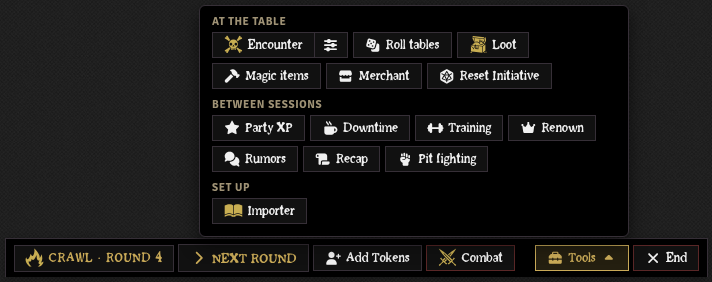
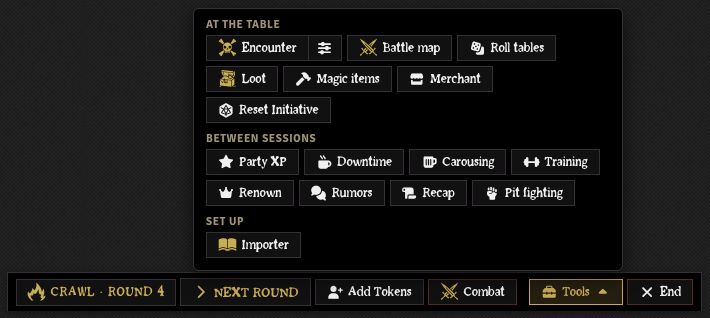
Battle map from Tools: review fixes
- CHANGELOG: [Unreleased] Added line for Tools > Battle map.
- Wiki: the Tools row and Encounter Battle Maps name the fourth entry point
  (always opens the picker, party only); index one-liner; Tools panel
  image retaken from the harness; the three bar fixtures carry the entry.
- Keep this battle on a battle with no creature saves under the map's name
  instead of "0  (Map)".
- Tests for openPartyBattleMap (picker forced, encounter null, closed
  picker, running battle, non-GM, guard shared with the encounter path)
  and for the kept name.
- Inventory: battle-actions.mjs description names all four callers.

Changed region(s): [[0.0, 0.0284, 1.0, 0.9929], [0.2789, 0.0, 0.8986, 0.0851]]

diff --git a/CHANGELOG.md b/CHANGELOG.md
@@ -4,6 +4,7 @@
 
 ### Added
 
+- **A battle map without rolling an encounter.** Battle maps could only be reached from a rolled creature (the Encounter panel, the posted card, the Encounter Roller). **Tools > At the table > Battle map** now opens the map picker and puts the party alone on the chosen map, where it stands; you add the foes yourself. The battle then runs like any other: Bring the table, Change map and Return to travel are on the Crawl Bar's battle item, and Keep this battle saves the copy under the map's name.
 - **Carousing runs the Western Reaches and Cursed Scroll #6 rules: benefits and mishaps.** The Carousing tab used to roll only the Core rulebook's one-line outcome, so the expanded rules in those books (a d8 outcome that sends you to a d100 Benefit table and a d100 Mishap table) were not reachable at all: Extras' own expanded Carousing is off whenever the Enhancer is installed. Pick the Western Reaches or Cursed Scroll #6 rules in the setup and the Event, Benefit and Mishap tables of that book are used with them. Each character rolls d8 plus the tier, holiday and renown bonuses, reads the matrix row (mishaps, benefits, % modifier, XP), then rolls a d100 for each benefit and mishap it lists, shifted by the row's % modifier and kept between 1 and 100. A row that says to re-roll as a mishap or as a benefit rolls on the other table. The row's XP, and any plain XP, Luck or signed renown a result states, are awarded once; everything else stays in the saved result for you. A holiday's extra benefit, extra mishap, benefit bonus and advantage apply; its chance events stay manual. The results show as Benefit and Mishap lines in the tab, the history and the Session Recap. The two d100 tables must cover 1 to 100, or the outing is refused before anyone pays. `docs/wiki/Carousing.md` and `docs/API.md` have the rules.
 - **The hex hover card and the Hex Data window name the hex's region (#496).** The GM's hover card gets a line after the terrain and the Hex Data header a Region entry beside Terrain, read from the same answer the Show regions overlay and the encounter roll use, so a hex shows no region exactly where the roll finds none. A region taken from the nearest keyed hex, not a printed border, reads "(estimated)". Nothing shows without a scan or seeds, for an unnumbered hex, or to players; a region fix or a changed crawl entry updates both without a reload.
 - **Hex Data takes links by drag-and-drop, shares them with players, and rolls a table when the party arrives (#499).** The Links section accepts a journal entry, journal page or roll table dropped from the sidebar and fills the name and UUID for you (the UUID box stays for pasting); every row gains an open button and an **Also give players Observer access** tick. Save applies the tick by raising the linked document's own ownership to at least Observer — raising only its own default and its inheriting entries, never lowering a per-user restriction on it (a player who owns the journal through their own entry sees a page that inherits at Observer once it is shared), and for a journal page raising the page, not its journal, so the journal's other pages stay private — and refuses the module's private hex records. A share that did not take (a compendium copy, a vetoed update) is reported. A link that is disclosed while players cannot open it says so under the row, and a player's click on one they cannot open is answered with a notice instead of nothing happening. A new **Rolls when the party arrives** card sets the per-hex roll table, its chance and first-entry-only — the fields a committed party entry already reads.

diff --git a/docs/FILE-INVENTORY.md b/docs/FILE-INVENTORY.md
@@ -262,7 +262,7 @@
 | `battle-maps/battle-map-picker-core.mjs` | 366 | The pure half of the battle map picker: orders the window's three groups (this terrain's maps with the default marked, every other map with terrain chips, and the scenes already in the world) and works out the next per-terrain prefs for pin, switch off and pick at random, so the default the GM sees is always the default that opens (it follows the library's rule exactly). No Foundry. |
 | `battle-maps/battle-map-picker.mjs` | 279 | The battle map picker window: previews of the shipped maps and the world's own scenes with Day, Night and Camp toggles, select then confirm, and GM-only controls to pin a terrain's default, switch a map off or pick at random. `BattleMapPicker.pick` answers with the choice, or null when it is closed. Saves of the prefs are queued so quick clicks are not lost. |
 | `battle-maps/battle-actions-core.mjs` | 207 | The pure half of the buttons that put the feature in the GM's hands: which battle buttons the Encounter panel and the battle bar show for each state of a battle, the panel's open and fold rule (it opens while the battle is staged and folds when it goes live), the readout's wording, whether a posted card can offer a battle, and the terrain, night and camping a click starts from. No Foundry. |
-| `battle-maps/battle-actions.mjs` | 299 | The one flow behind both Battle map buttons, the clock HUD's Encounter panel and the posted encounter card: pick the map when asked, set the battle up, one at a time. Also the GM-only wiring of the card's button and the actions behind Change map, Bring the table and Return to travel. |
+| `battle-maps/battle-actions.mjs` | 301 | The one flow behind every Battle map button (the clock HUD's Encounter panel, the posted encounter card, the Encounter Roller, and Tools > Battle map, which sets the party up alone with no encounter): pick the map when asked, set the battle up, one at a time. Also the GM-only wiring of the card's button and the actions behind Change map, Bring the table and Return to travel. |
 | `encounter-draw.mjs` | 211 | Drawing an encounter with no window, shared by the Encounter Roller and quiet travel checks (#257): the table's row, a zone table's category and the region's table for it (day or night, then Special), the travel draw's point of interest (#262, #273), the entry (the NPC, its art, number appearing with its formula, distance 1d6, activity 2d6, reaction 2d6), the chain of tables drawn for the panel, a second category kept out of chat when quiet, and postEncounter's chat card. |
 
 ### 3.6 `scripts/monster-creator/`

diff --git a/docs/wiki/Encounter-Battle-Maps.md b/docs/wiki/Encounter-Battle-Maps.md
@@ -5,13 +5,14 @@
 On the hex map the party is one token on a six-mile hex, so a travel encounter
 has nowhere to be fought. **Battle map** takes the encounter to a real battle map
 for the terrain the party is in, with the party and the monsters from the roll
-already standing on it, and brings the table over when you are ready.
+already standing on it, and brings the table over when you are ready. You can
+also open one with no encounter at all, from the Tools panel.
 
 ---
 
 ## The buttons
 
-A GM gets **Battle map** in three places:
+A GM gets **Battle map** in four places:
 
 - the **Encounter** panel that drops from the clock bar when a travel check hits
   (see [Clock and Calendar](Clock-and-Calendar.md#encounters-while-travelling-gm)).
@@ -23,9 +24,13 @@ A GM gets **Battle map** in three places:
   panel. A row with no creature in it (a line of text) has no map icon;
 - the encounter card posted to chat. The button is the GM's; players do not see it.
   The card has **Battle map** only: to choose the map yourself, use the Encounter
-  panel or the Random Encounter window.
+  panel or the Random Encounter window;
+- **Tools** on the Crawl Bar, under **At the table**, with no encounter needed. It
+  always opens the picker, then puts the party alone on the map you chose, where it
+  stands; you drag the foes on yourself. Keep this battle saves it under the map's
+  name.
 
-**Battle map** opens the default map for the party's terrain (see
+On an encounter, **Battle map** opens the default map for the party's terrain (see
 [A default for each terrain](#a-default-for-each-terrain)). **Choose map…** opens
 the picker (see [The picker](#the-picker)) so you choose the map yourself, or any
 scene in your world. **Battle map** opens the picker too when the module does not

diff --git a/docs/wiki/Crawl-Strip-and-Crawl-Bar.md b/docs/wiki/Crawl-Strip-and-Crawl-Bar.md
@@ -83,7 +83,7 @@ the button.
 | Section | Entries |
 |---|---|
 | **This travel day** (overland travel only) | Start day, Roll weather, Start a crawl |
-| **At the table** | **Encounter** (opens the [Encounter Roller](Random-Encounters.md); the button beside it, or a right-click, opens the encounter menu: check, threshold, frequency, tables by terrain), Roll tables, [Loot](Loot-and-Treasure.md), [Magic items](Magic-Item-Forge.md), [Merchant](Merchant-Shop.md), and in a crawl **Reset Initiative** |
+| **At the table** | **Encounter** (opens the [Encounter Roller](Random-Encounters.md); the button beside it, or a right-click, opens the encounter menu: check, threshold, frequency, tables by terrain), [Battle map](Encounter-Battle-Maps.md) (a battle map with the party only, no encounter needed), Roll tables, [Loot](Loot-and-Treasure.md), [Magic items](Magic-Item-Forge.md), [Merchant](Merchant-Shop.md), and in a crawl **Reset Initiative** |
 | **Between sessions** | [Party XP](Party-XP.md), [Downtime](Downtime.md), [Carousing](Carousing.md), [Training](Regional-Training.md), [Renown](Renown.md), [Rumors](Rumors.md), [Recap](Session-Recap.md), [Pit fighting](Pit-Fighting.md) |
 | **Set up** | [Importer](Importer-Hub.md), and Bastions once the world has one |
 

diff --git a/docs/wiki/index.md b/docs/wiki/index.md
@@ -35,7 +35,7 @@ Tools you run during an active game session.
 | [Modes of Play](Modes-of-Play.md) | The core rulebook's optional modes and Hard Luck, one switch per rule: Blitz, Chaos, Hunter, Pulp and the rest |
 | [Movement Budgets](Movement-Budgets.md) | Turn movement allowances, over-budget warnings or enforcement, rollback to turn start |
 | [Random Encounters](Random-Encounters.md) | The `1d6` encounter check, the Encounter Roller, placing results directly on the map |
-| [Encounter Battle Maps](Encounter-Battle-Maps.md) | A battle map for a travel encounter, one click away: the party and the monsters on it, the table brought over when the art is loaded, then back to travel |
+| [Encounter Battle Maps](Encounter-Battle-Maps.md) | A battle map for a travel encounter, one click away, or from Tools with no encounter: the party and the monsters on it, the table brought over when the art is loaded, then back to travel |
 | [Loot & Treasure](Loot-and-Treasure.md) | Hoard rolls, claimable chat cards, opt-in loot drops on combat end, coin piles |
 | [Merchant Shop](Merchant-Shop.md) | A live shop window for the whole party, buying and selling against `system.coins` |
 | [Party XP](Party-XP.md) | Whole-party XP awards and Shadowdark treasure-XP rules |
